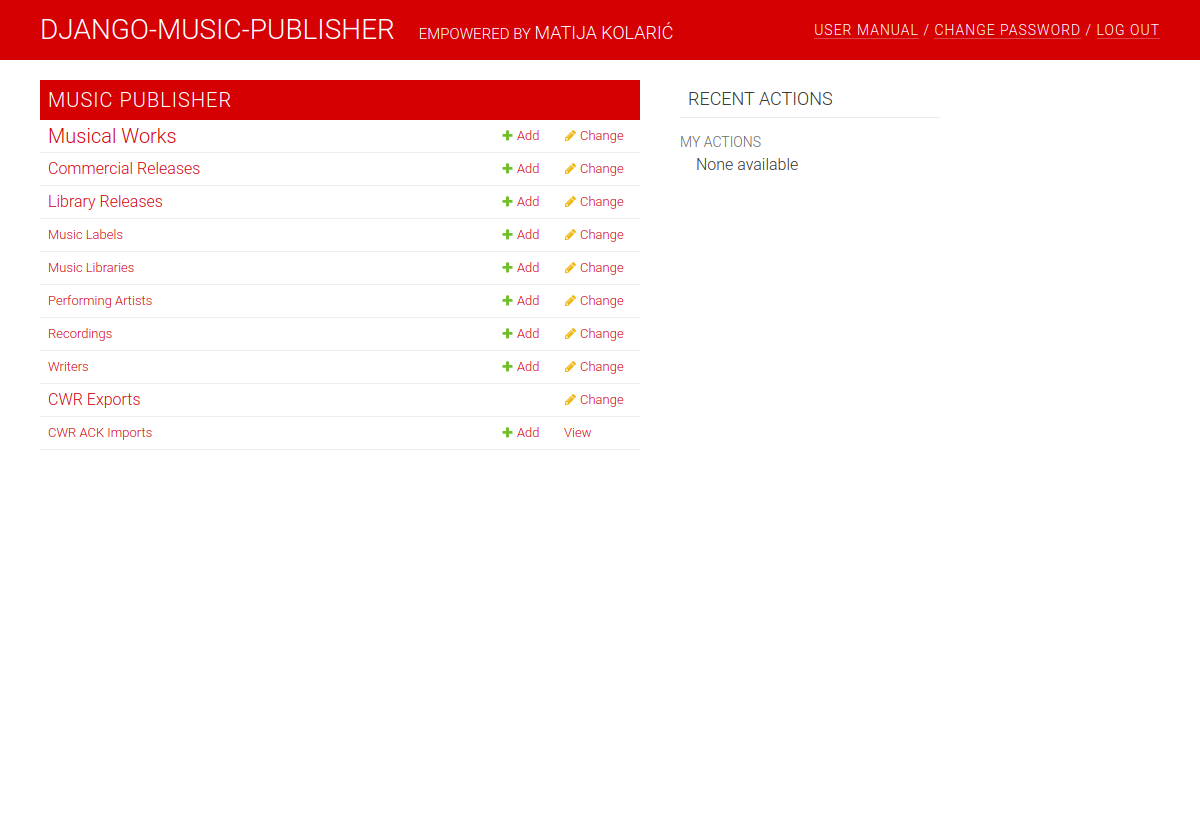
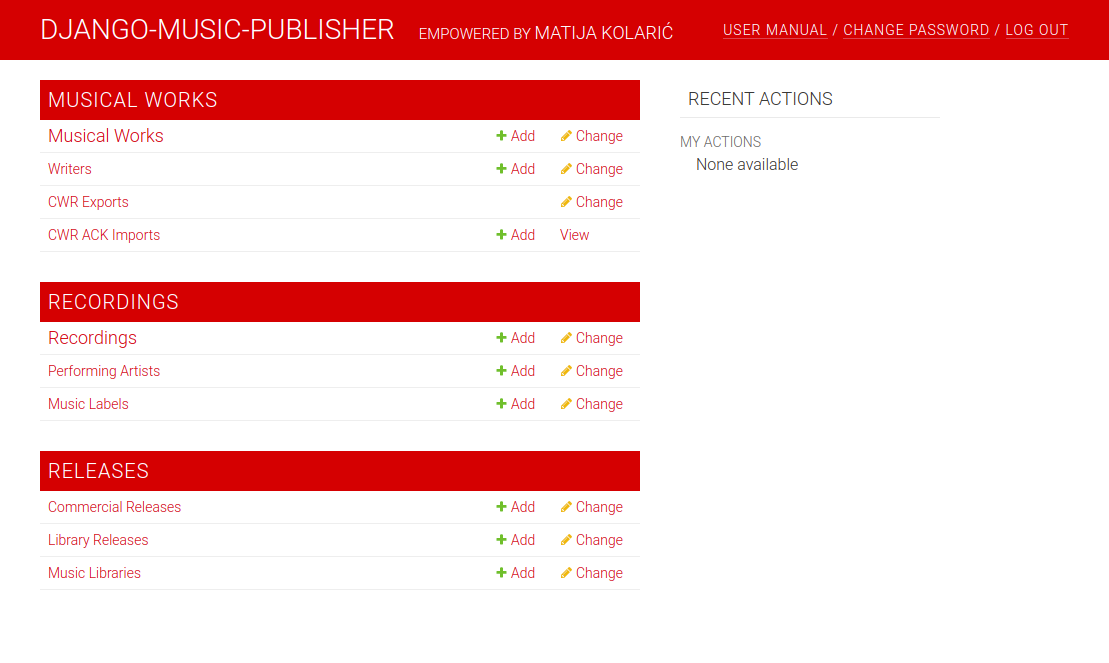
Documentation changes related to the new index page.

diff --git a/docs/manual_app.rst b/docs/manual_app.rst
@@ -6,7 +6,8 @@ Music Publisher App
 
    Home view for staff users
 
-``Music Publisher`` has several top-level models, and each model has several views.
+``Music Publisher`` has several top-level models, and each model has several views. This is what members of the
+``Publishing Staff`` group see when they log in. Note that there is no data in the right column when a new user logs in.
 
 Views
 +++++
@@ -25,33 +26,19 @@ Models
 
 Each model is a representation of an aspect of something from the real world. It has attributes that describe this aspect, and performs actions representing real world actions.
 
-We are just briefly going to describe the top level models here, each will be then described in detail in a separate section.
+We are just briefly going to describe the top level models here, each will be then described in detail in a separate section. Models are
+separated in several logical groups.
 
-Works
------
+Group Musical Works
+___________________
 
-`Work` model represents musical works and it is the workhorse model in Django-Music-Publisher. And it's ``add`` and ``change`` views are the most complex ones, with data on related recordings, writers, performing artists, alternate titles etc.
+``Musical Works`` group contains four models, for the work itself, for writers and two related to the Common Works Registration (CWR) protocol.
+
+Musical Works
+-------------
+
+`Musical Work` model represents musical works and it is the workhorse model in Django-Music-Publisher. And it's ``add`` and ``change`` views are the most complex ones, with data on related recordings, writers, performing artists, alternate titles etc.
 It also has several batch actions, e.g. data export.
-
-Commercial and Library Releases
--------------------------------
-
-Release is, generally speaking, a product containing one or more recordings, e.g. records and albums. The importance of the physical forms is diminishing, but they are still important enough to be part of a music publishing software, especially for music libraries.
-
-Labels and Libraries
---------------------
-
-Two very simple models, but their importance will grow with the upcoming extensions to Django-Music-Publisher.
-
-Performing Artists
-------------------
-
-One of the simpler models, beside the data about the artist, it's views also show recordings the artists made and works they perform.
-
-Recordings
-----------
-
-The views for recordings are, strictly speaking, not needed, as this data is accessible from other views: works and releases. It is recommended not to use this model for editing. On the other hand, it's ``list`` view is handy for searching and filtering.
 
 Writers
 -------
@@ -68,3 +55,52 @@ CWR ACK Imports
 ---------------
 
 Once a collecting society processes a CWR file, they send an acknowledgement file (or several files). This model is used for data import from these files.
+
+Group Recordings
+________________
+
+``Recordings`` group contains three models, for the recording itself, performing artists and labels.
+
+Recordings
+----------
+
+This model contains data about recordings.
+
+The views for recordings are, strictly speaking, not needed at hsi point. This data is accessible from other views: ``Musical Works``, ``Commercial Releases`` and ``Library Releases``. It is recommended not to use this model for editing. On the other hand, it's ``list`` view is handy for searching and filtering.
+
+However, this will change in future releases of the software, when more functionality related to recordings, releases and labels will be added.
+
+Performing Artists
+------------------
+
+One of the simpler models, beside the data about the artist, it's views also show recordings the artists made and works they perform.
+
+Music Labels
+--------------------
+
+A simple model containing only a label name. This will be extended in future releases of the software.
+
+Group Releases
+______________
+
+``Releases`` group contains three models, for commercial and library releases, as well as music libraries.
+
+Commercial and Library Releases
+-------------------------------
+
+Release is, generally speaking, a product containing one or more recordings, e.g. records and albums.
+The importance of the physical forms is diminishing, but they are still important enough to be part of a music
+publishing software, especially for music libraries.
+
+The releases are split into Commercial (General) and Library.
+
+Music Libraries
+--------------------
+
+Two very simple models, but their importance will grow with the upcoming extensions to Django-Music-Publisher.
+
+Group Other
+___________
+
+This group holds additional models, such as ``Data Import`` or custom ones. These models may not be visible to the
+members of ``Publishing Staff`` group.

diff --git a/docs/manual_releases.rst b/docs/manual_releases.rst
@@ -12,13 +12,15 @@ Under the hood of Django-Music-Publisher, there is very little difference betwee
 
 We will first cover simpler Commercial Releases.
 
-Commercial Releases
-+++++++++++++++++++
+Commercial (General) Releases
++++++++++++++++++++++++++++++
+
+Note that *Commercial* is used here as a synonym for *General*.
 
 The most typical example of a release used to be a vinyl record album, then a CD.
 
-Django-Music-Publisher, as open source software, is easily extendable. While currently there is no real use for ``commercial releases`` model with vanilla Django-Music-Publisher, because this data is not included in CWR registrations,
-it may become useful with a custom extension, or with one of the upcoming publicly available extensions.
+Django-Music-Publisher, as open source software, is easily extendable. While currently there is no real use for ``commercial releases`` model with vanilla Django-Music-Publisher, because this data is not included in CWR registrations.
+It will be used in the future versions of the software.
 
 The ``Commercial release list`` view is quite simple, only three columns, ``Release (album) title``, ``Release (album) label`` and count of tracks with link to ``Recordings``.
 

diff --git a/docs/manual_home.rst b/docs/manual_home.rst
@@ -18,4 +18,6 @@ The ``home view`` will show up after a successfully login, in this example, it i
 In the header, the left part shows the name of the (main) publisher and the link to the maintainer's website.
 The right shows links to this user manual, for changing the password and logging out. This header is present in all views.
 
-We have two columns, the left one shows the list of modules, with links to change and add views. The right one shows the last 10 actions of the current user. It is empty, as we have not done anything yet.
+We have two columns, the left one shows the list of modules, with links to change and add views.
+The right one shows up to 10 latest actions of the current user. In this case, a user was created and edited,
+as described in the next section.

diff --git a/docs/releases.rst b/docs/releases.rst
@@ -49,8 +49,8 @@ Normalized JSON export was dropped. Documentation has been stripped of techie ja
 Features already present in the 20.7 branch:
 
 * Clearer index page
-* Controlled writers without IPI name numbers and PR affiliations
 * Data import for new musical works
+* Controlled writers without IPI name numbers and PR affiliations
 
 20.7 and beyond
 ---------------
